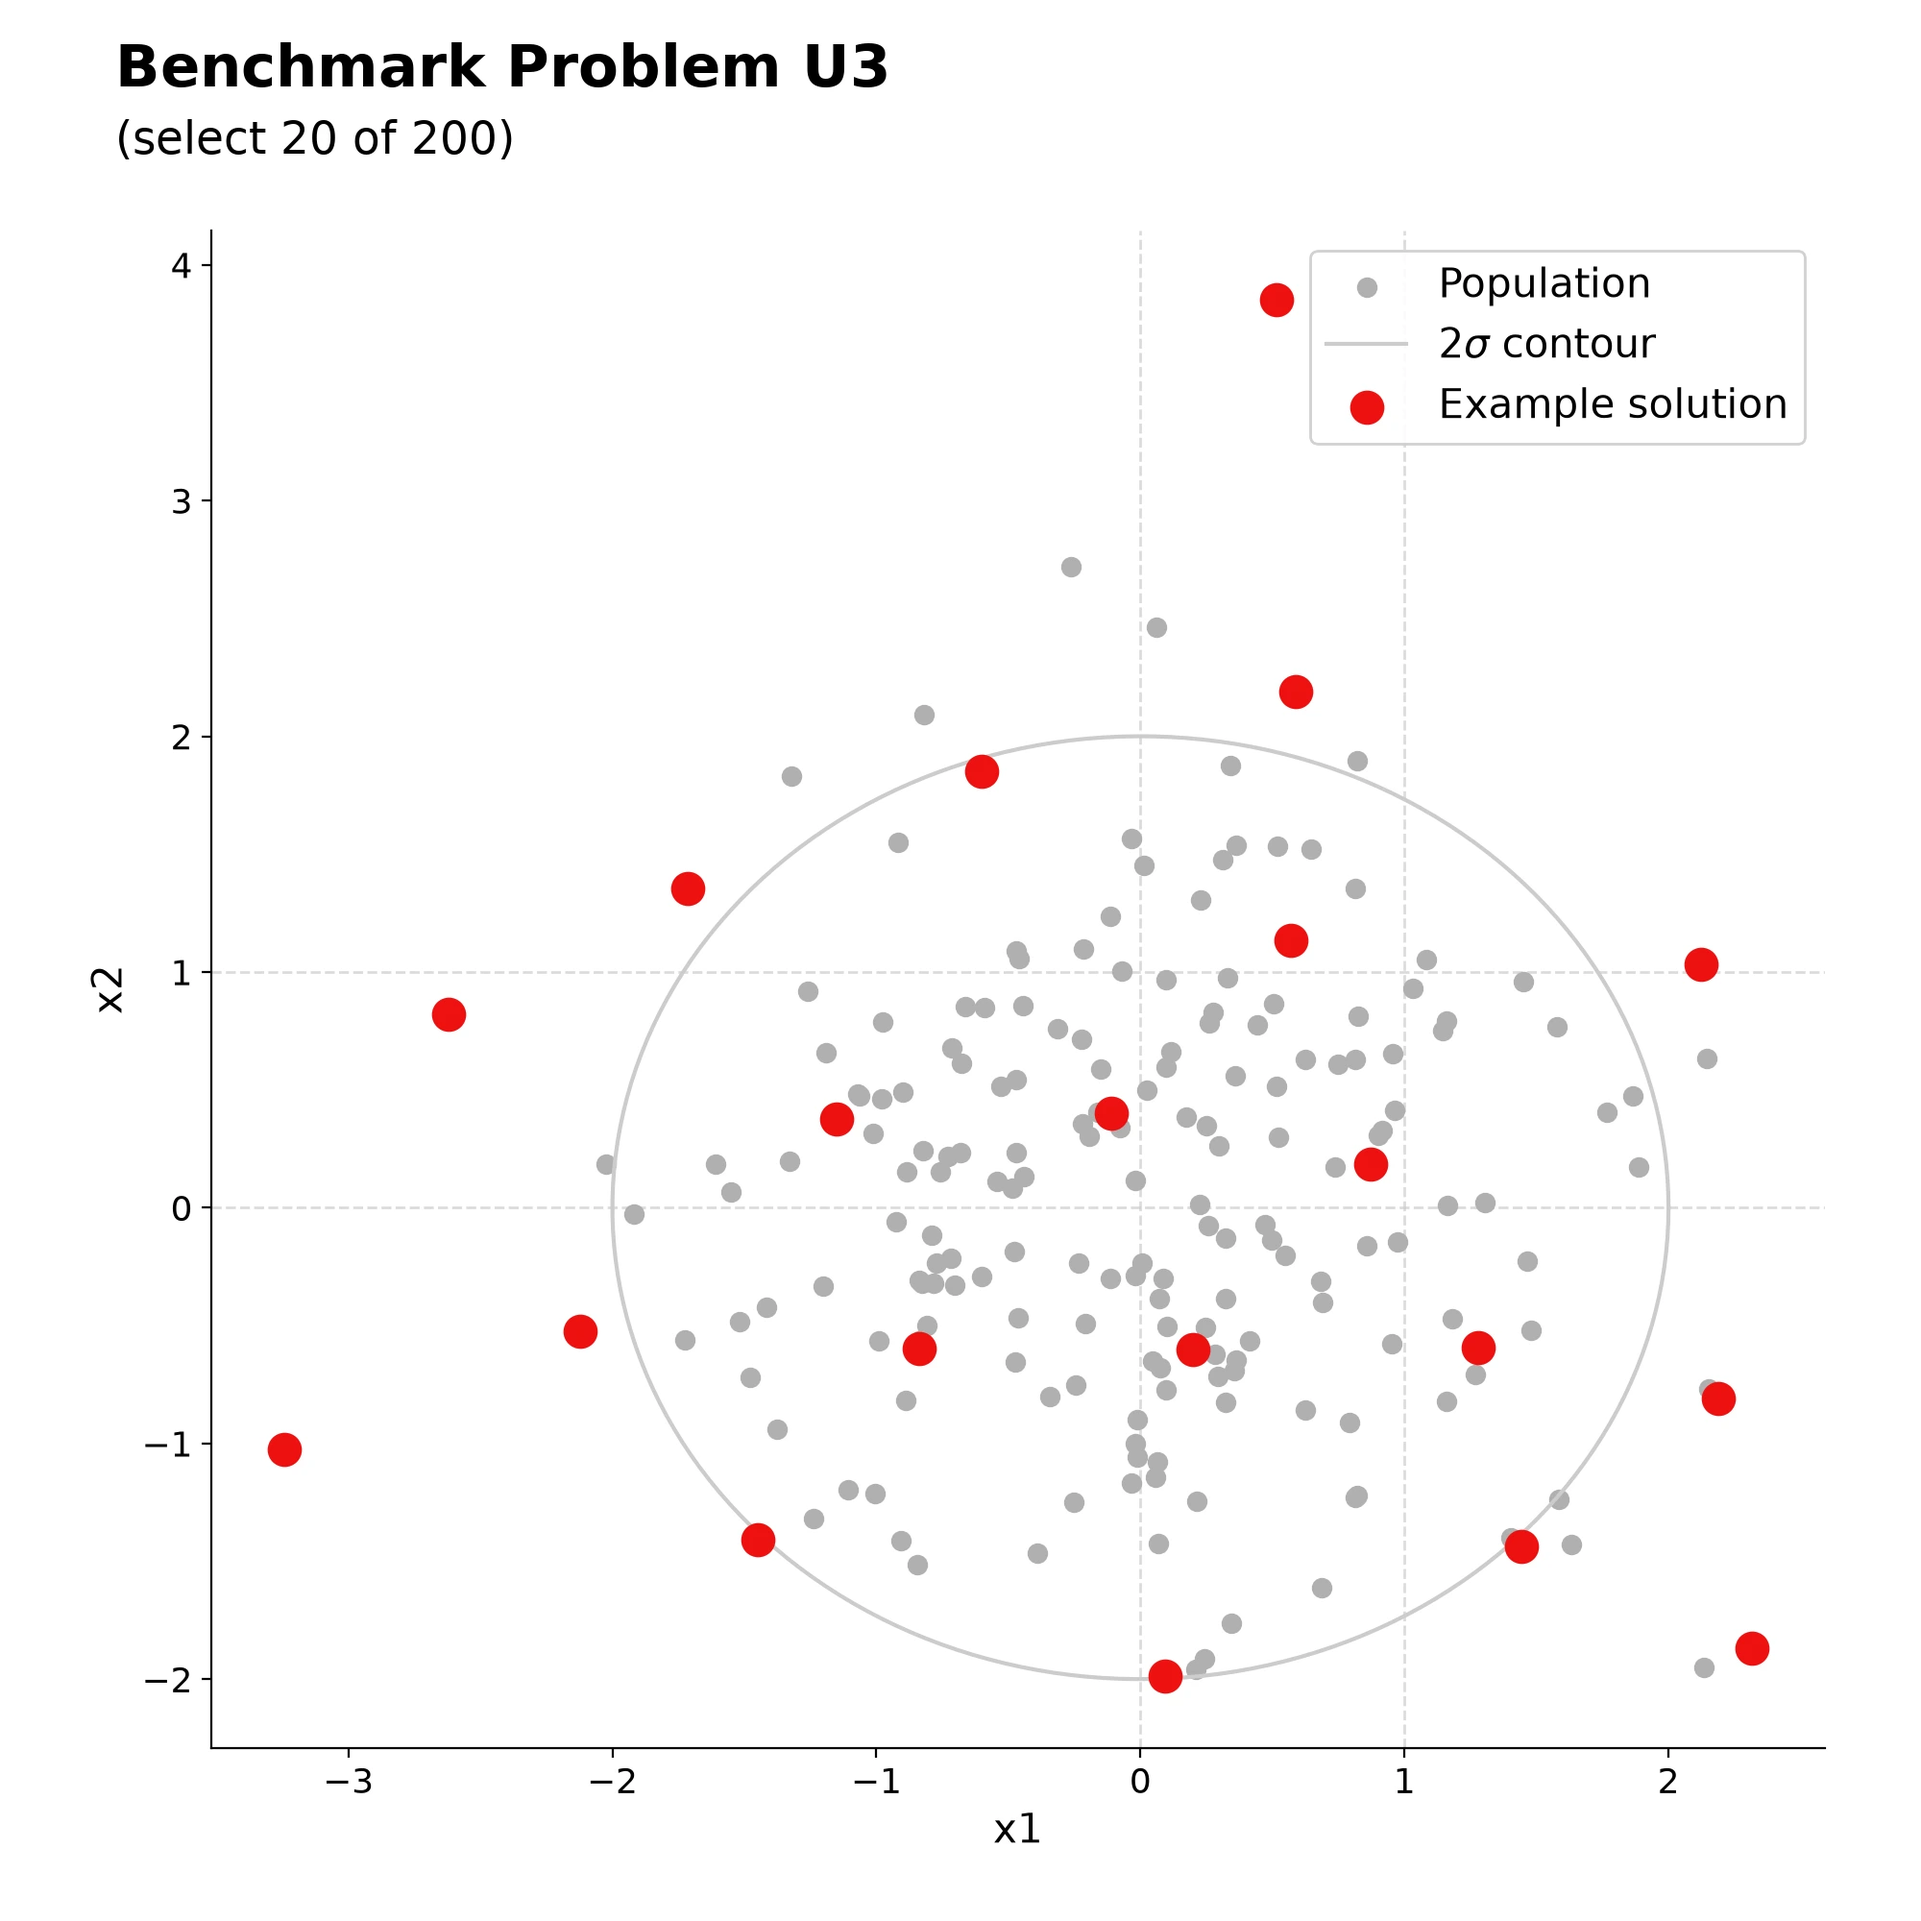
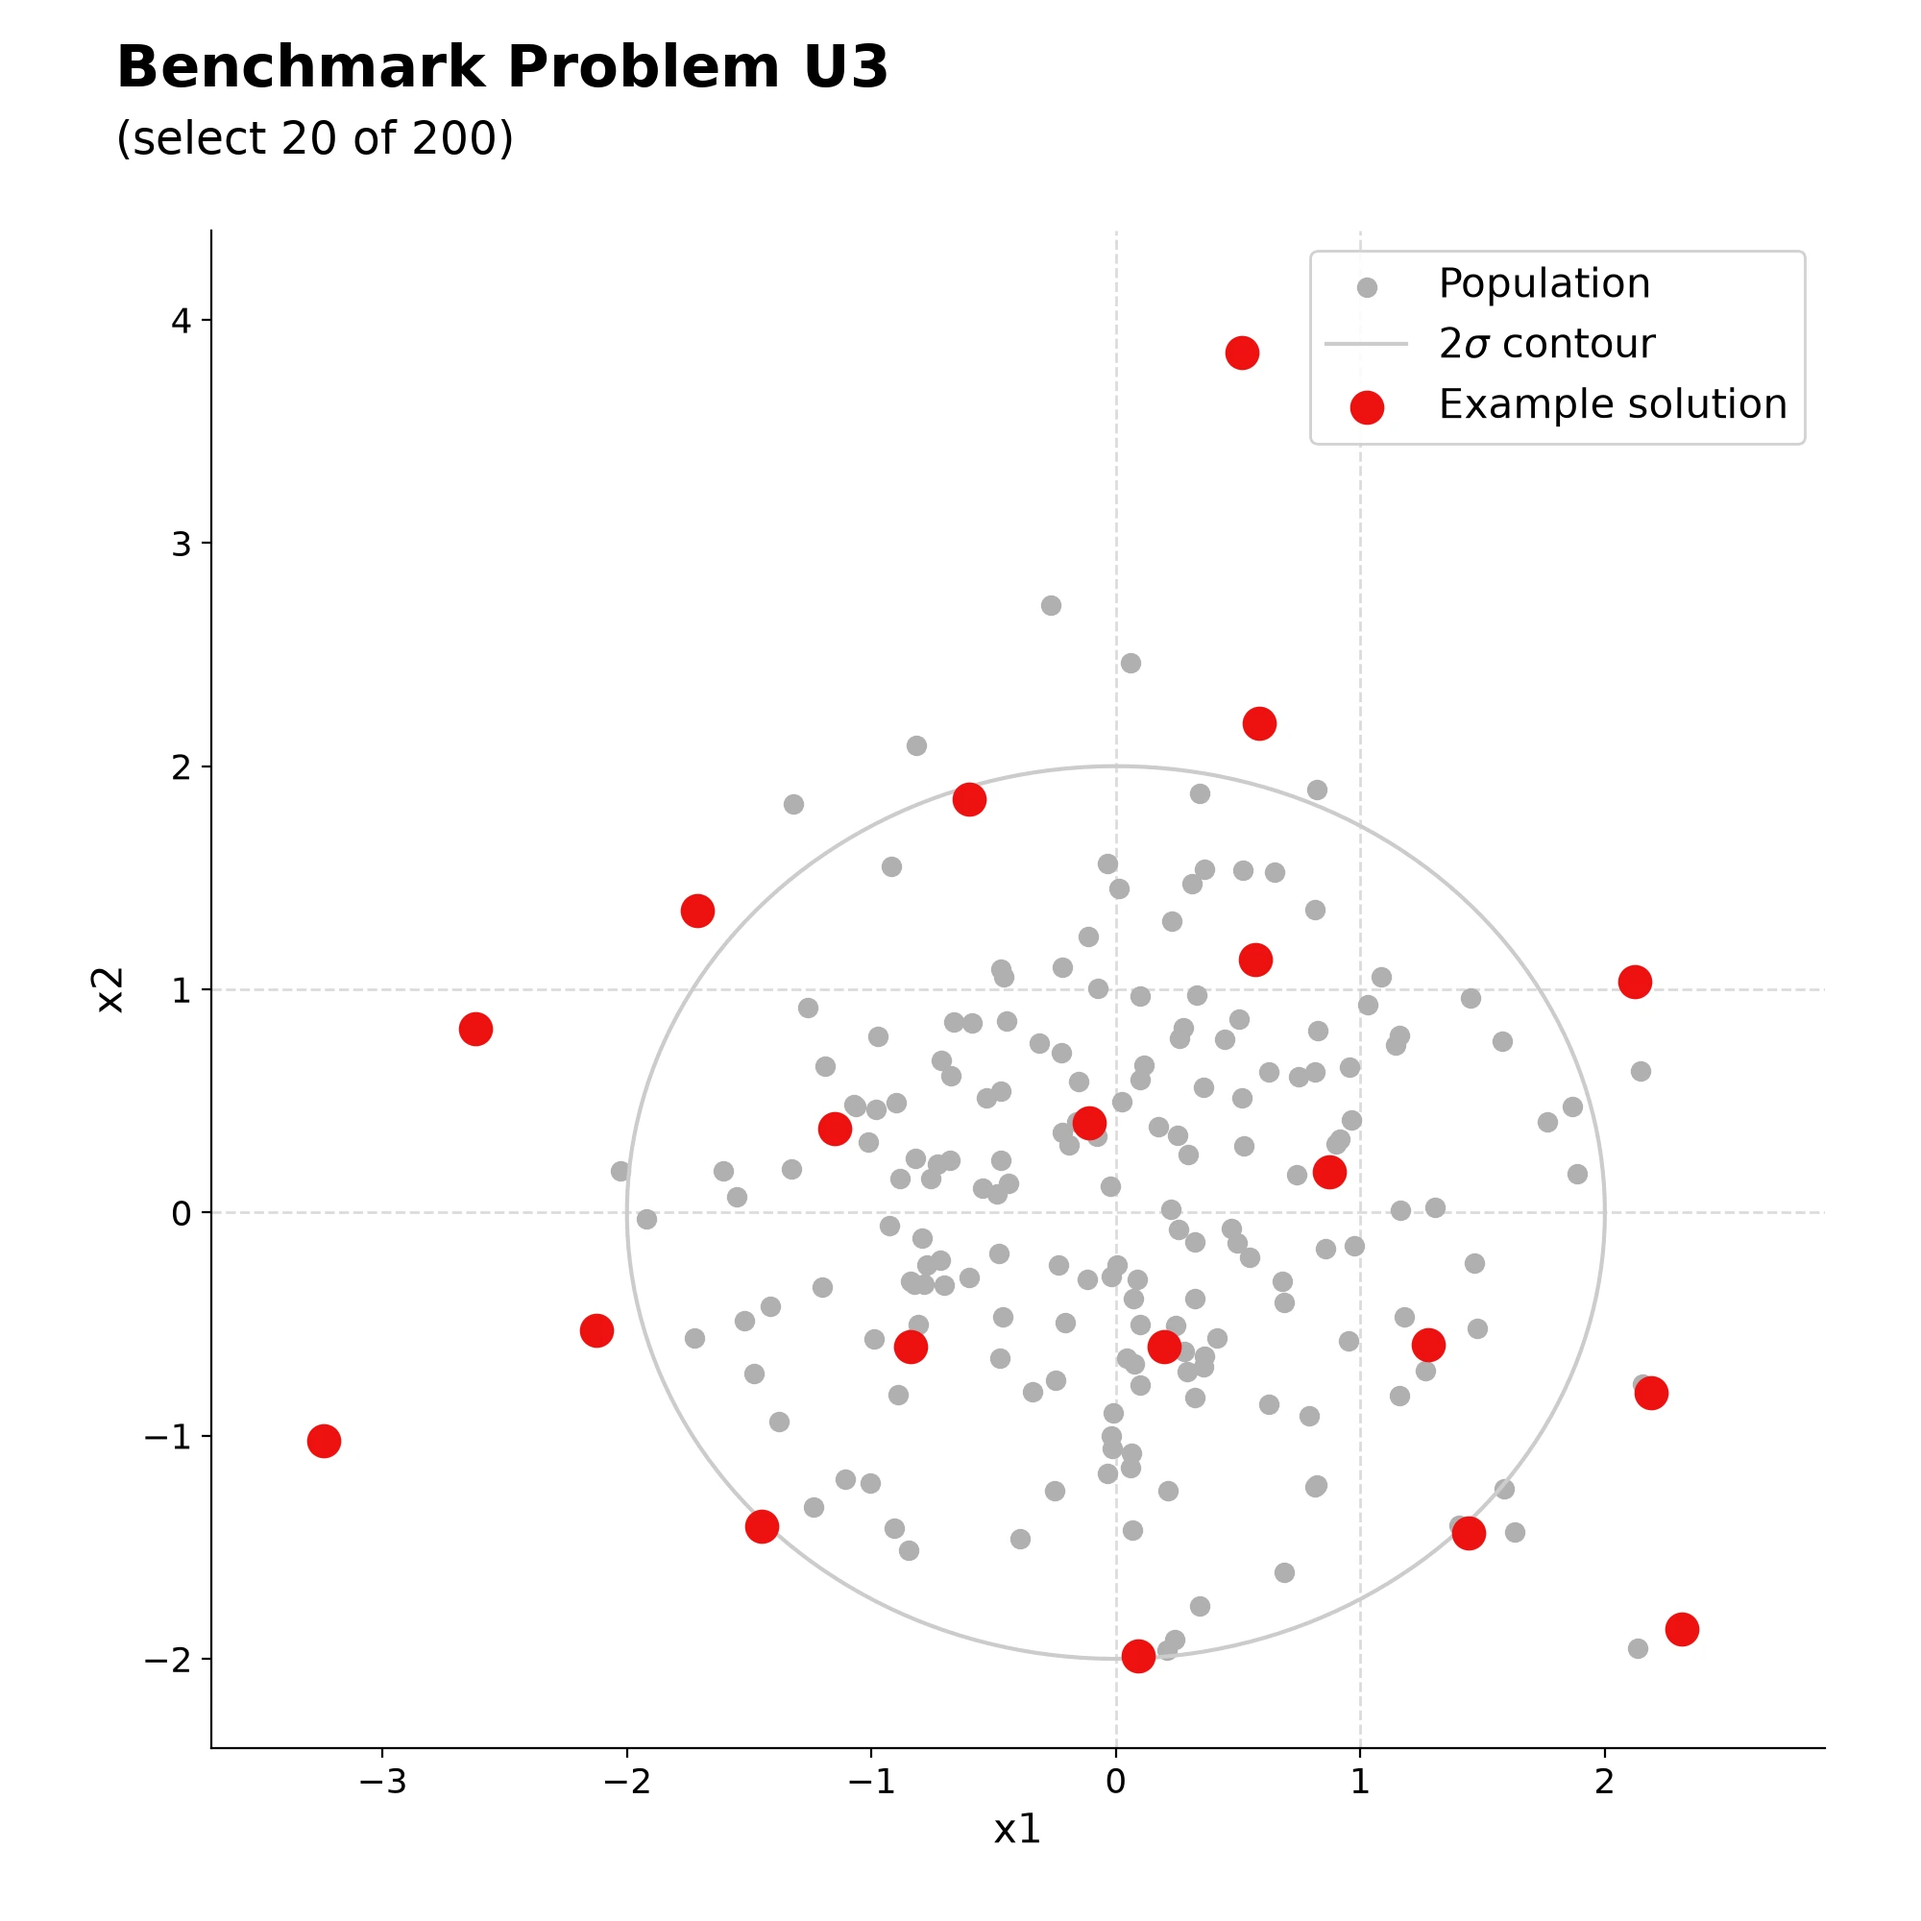
docs: reinstate per-problem axes and legend placement for the problem images
The figure refactor dropped explicit axis limits and per-problem legend corners, so autoscale framed the data edge-to-edge and the legend landed on it — most visibly on U4, where it covered the cone and the example-solution points. Restore explicit per-problem limits and a legend corner each problem's data leaves empty; C1-C4 and U4 keep their earlier limits, U1/U2/U3 are set for their current geometry. Regenerated all 16 problem images.

diff --git a/scripts/generate_problem_images.py b/scripts/generate_problem_images.py
@@ -28,6 +28,32 @@ LIGHT_GRAY = "#cccccc"
 BLUE = "#2233bb"
 RED = "#ee1111"
 
+# Explicit per-problem axes and legend corner: without them, autoscale frames the data
+# edge-to-edge and the legend has no empty corner to sit in (most visibly U4, where it lands on
+# the cone). Each problem's legend goes in the corner its own data leaves empty, and each frame
+# carries a margin around the data (U1's halo reaches ~1.3, U3 sits on a wider scale, U2 is a unit
+# square) so nothing is clipped and the legend has room.
+_XY_LIMS = {
+    "U1": ((-0.4, 1.4), (-0.2, 1.4)),
+    "U2": ((-0.1, 1.1), (-0.1, 1.25)),
+    "U3": ((-3.7, 2.9), (-2.4, 4.4)),
+    "U4": ((-0.05, 1.25), (-0.05, 1.25)),
+    "C1": ((-0.1, 1.1), (-4.0, 5.5)),
+    "C2": ((-0.1, 1.1), (-4.0, 5.5)),
+    "C3": ((-5.0, 5.0), (-4.0, 6.0)),
+    "C4": ((-5.0, 5.0), (-4.0, 6.0)),
+}
+_LEGEND_LOC = {
+    "U1": "upper right",
+    "U2": "upper right",
+    "U3": "upper right",
+    "U4": "upper left",
+    "C1": "lower right",
+    "C2": "lower right",
+    "C3": "lower left",
+    "C4": "lower left",
+}
+
 
 # =================================================================================================
 #  Rendering helpers
@@ -145,6 +171,8 @@ def render_geometry(name: str, with_solution: bool) -> None:
     _crosshair_gridlines(ax)
     ax.scatter(problem.vectors[:, 0], problem.vectors[:, 1], s=45, color=GRAY, label="Population", zorder=2)
     _draw_boundary(ax, name)
+    ax.set_xlim(*_XY_LIMS[name][0])
+    ax.set_ylim(*_XY_LIMS[name][1])
     _draw_band_constraints(ax, name, GEOMETRY_N)
 
     if with_solution:
@@ -161,7 +189,7 @@ def render_geometry(name: str, with_solution: bool) -> None:
             zorder=3,
         )
 
-    ax.legend(fontsize=15, loc="lower right" if name.startswith("C") else "upper right", framealpha=0.9)
+    ax.legend(fontsize=15, loc=_LEGEND_LOC[name], framealpha=0.9)
     suffix = "_with_solution" if with_solution else ""
     _save_webp(fig, IMAGES_DIR / f"problem_{name}{suffix}.webp")
 
